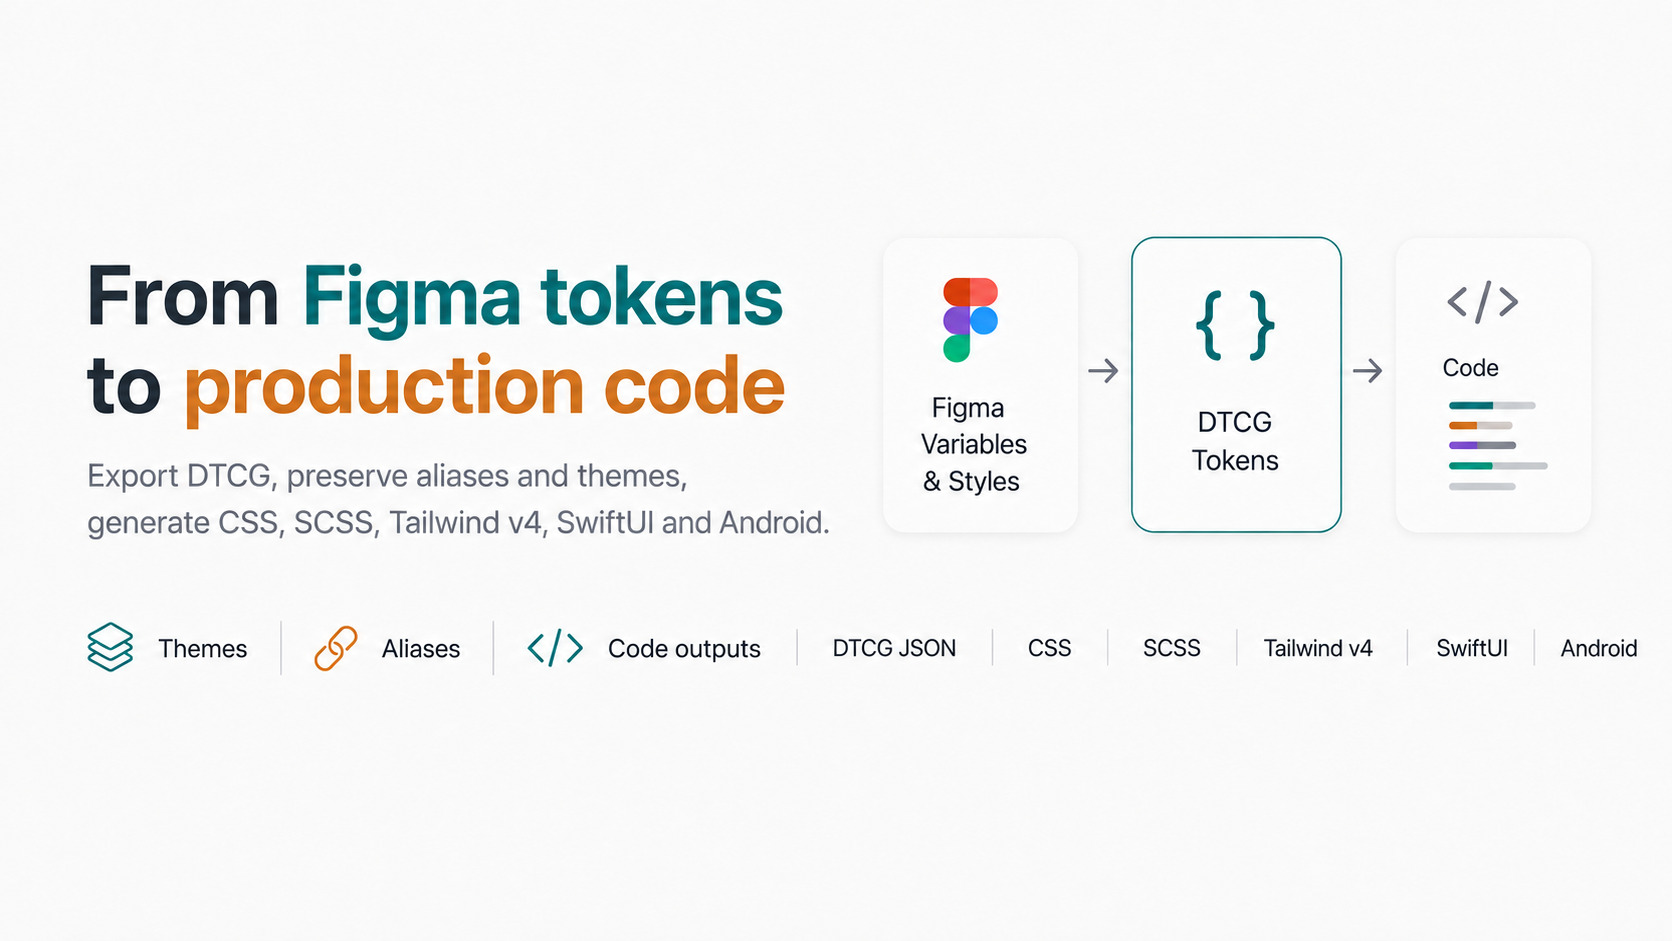
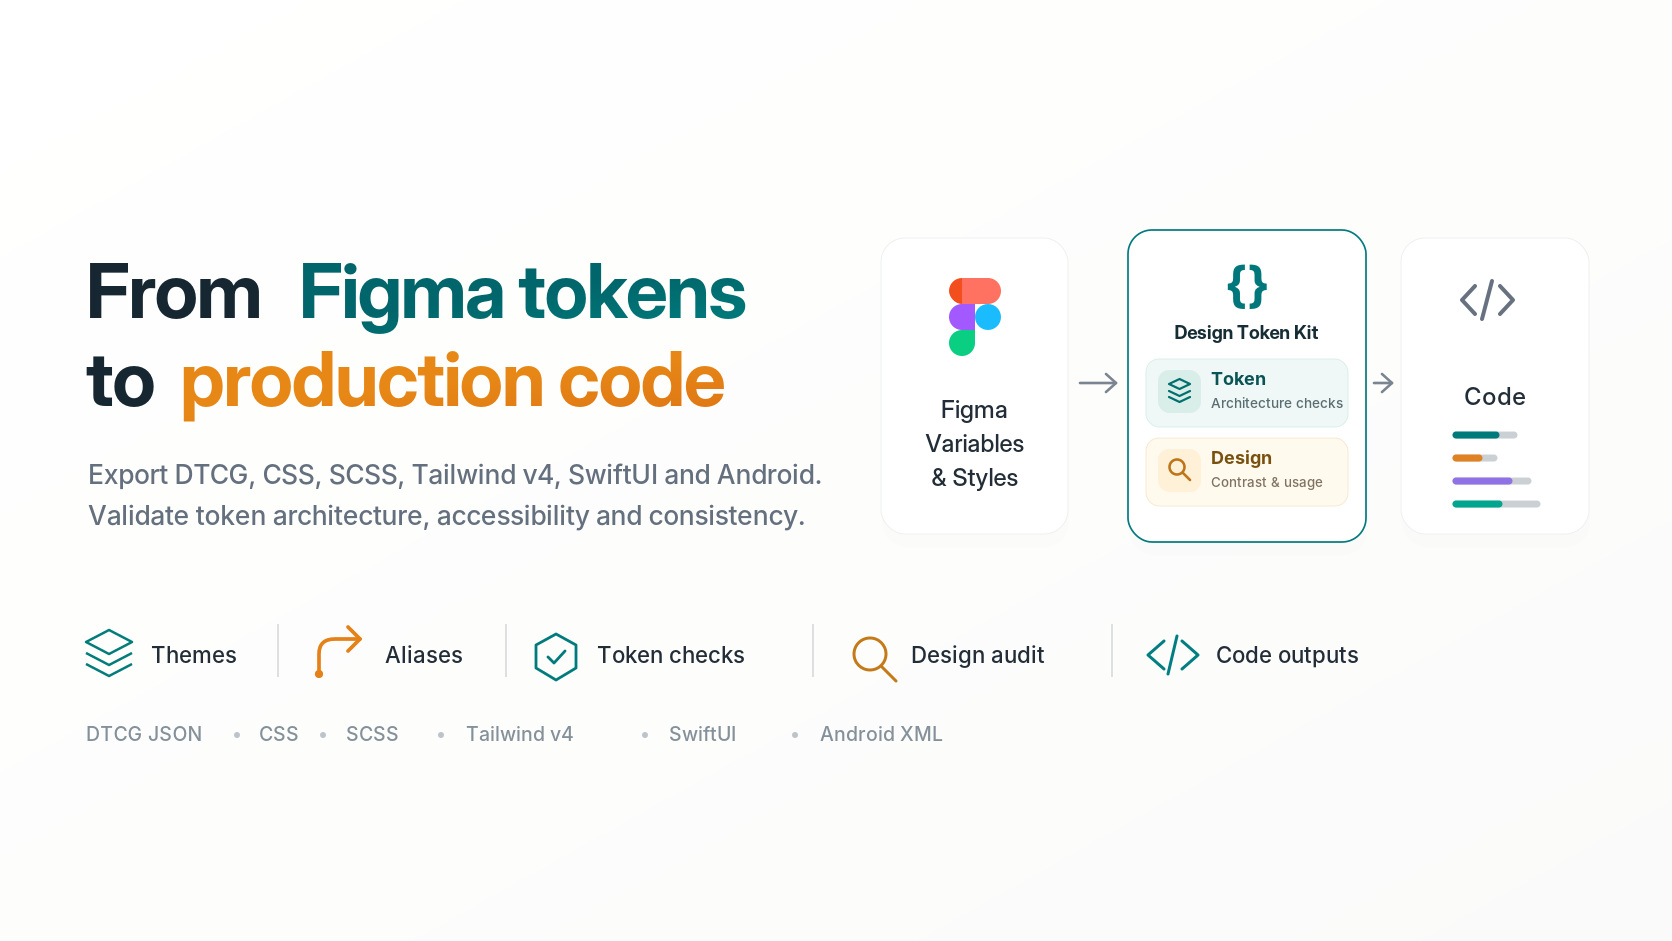
Refresh Figma plugin pages

diff --git a/src/pages/plugin/plugin.module.scss b/src/pages/plugin/plugin.module.scss
@@ -100,98 +100,18 @@
     max-width: var(--primitive-size-contentMaxWidthWide);
 
     h3 {
-        margin: var(--semantic-space-3) var(--semantic-space-0) var(--semantic-space-4);
+        margin: var(--semantic-space-0) var(--semantic-space-0) var(--semantic-space-4);
         color: var(--semantic-color-accent-primary);
         font-size: clamp(1.7rem, 3vw, 2.5rem);
         line-height: var(--semantic-font-lineHeight-tight);
         letter-spacing: var(--semantic-font-letterSpacing-tight);
     }
 
-    > p:not(.showcaseLabel) {
+    > p {
         margin: var(--semantic-space-0);
         color: var(--semantic-color-text-secondary);
         font-size: var(--semantic-font-size-md);
         line-height: var(--semantic-font-lineHeight-relaxed);
-    }
-}
-
-.showcaseLabel {
-    margin: var(--semantic-space-0);
-    color: var(--semantic-color-accent-secondaryHover);
-    font-size: var(--semantic-font-size-xs);
-    font-weight: var(--semantic-font-weight-bold);
-    letter-spacing: var(--semantic-font-letterSpacing-wide);
-    text-transform: uppercase;
-}
-
-.showcaseBenefits {
-    display: grid;
-    gap: var(--semantic-space-3);
-    margin: var(--semantic-space-5) var(--semantic-space-0) var(--semantic-space-0);
-    padding: var(--semantic-space-4) var(--semantic-space-0) var(--semantic-space-0);
-    list-style: none;
-    border-top: var(--primitive-size-borderWidthSm) solid var(--semantic-color-border-subtle);
-
-    li {
-        position: relative;
-        padding-left: var(--semantic-space-5);
-        color: var(--semantic-color-text-primary);
-        font-size: var(--semantic-font-size-sm);
-        font-weight: var(--semantic-font-weight-semibold);
-        line-height: var(--semantic-font-lineHeight-normal);
-
-        &::before {
-            position: absolute;
-            top: var(--semantic-space-1);
-            left: 0;
-            width: var(--semantic-space-2);
-            height: var(--semantic-space-2);
-            content: "";
-            background: var(--semantic-color-accent-secondary);
-            border-radius: var(--semantic-radius-full);
-        }
-    }
-}
-
-.showcaseFormats {
-    display: flex;
-    gap: var(--semantic-space-4);
-    align-items: baseline;
-    margin-top: var(--semantic-space-5);
-    padding-top: var(--semantic-space-4);
-    border-top: var(--primitive-size-borderWidthSm) solid var(--semantic-color-border-subtle);
-
-    > span {
-        flex: 0 0 auto;
-        color: var(--semantic-color-text-muted);
-        font-size: var(--semantic-font-size-xs);
-        font-weight: var(--semantic-font-weight-bold);
-        letter-spacing: var(--semantic-font-letterSpacing-wide);
-        text-transform: uppercase;
-    }
-
-    ul {
-        display: flex;
-        flex-wrap: wrap;
-        gap: var(--semantic-space-0);
-        margin: var(--semantic-space-0);
-        padding: var(--semantic-space-0);
-        list-style: none;
-    }
-
-    li {
-        padding: var(--semantic-space-0) var(--semantic-space-3);
-        color: var(--semantic-color-text-primary);
-        font-size: var(--semantic-font-size-sm);
-        font-weight: var(--semantic-font-weight-semibold);
-
-        &:first-child {
-            padding-left: var(--semantic-space-0);
-        }
-
-        &:not(:last-child) {
-            border-right: var(--primitive-size-borderWidthSm) solid var(--semantic-color-border-default);
-        }
     }
 }
 
@@ -278,28 +198,14 @@
 
 .heroVisual {
     position: relative;
-    width: 88%;
+    width: 100%;
     justify-self: end;
-    padding: var(--semantic-space-5);
+    padding: var(--semantic-space-3);
     background: color-mix(in srgb, var(--semantic-color-surface-default) 82%, var(--semantic-color-bg-soft));
     border: var(--primitive-size-borderWidthSm) solid var(--semantic-color-border-default);
     border-radius: var(--semantic-radius-xl);
     box-shadow: var(--semantic-shadow-md);
     transform: rotate(1.5deg);
-
-    &::before {
-        position: absolute;
-        top: var(--semantic-space-6);
-        right: calc(var(--semantic-space-6) * -1);
-        width: var(--semantic-space-10);
-        height: var(--semantic-space-10);
-        content: "";
-        background: var(--semantic-color-accent-wash);
-        border: var(--primitive-size-borderWidthSm) solid var(--semantic-color-accent-secondary);
-        border-radius: var(--semantic-radius-full);
-        opacity: 0.7;
-        transform: translate(30%, -45%);
-    }
 
     img {
         position: relative;
@@ -309,29 +215,6 @@
         height: auto;
         border-radius: var(--semantic-radius-lg);
     }
-}
-
-.visualLabel {
-    position: relative;
-    z-index: 2;
-    display: inline-flex;
-    gap: var(--semantic-space-2);
-    align-items: center;
-    margin-bottom: var(--semantic-space-4);
-    padding: var(--semantic-space-2) var(--semantic-space-3);
-    color: var(--semantic-color-text-primary);
-    font-size: var(--semantic-font-size-xs);
-    font-weight: var(--semantic-font-weight-bold);
-    background: var(--semantic-color-surface-default);
-    border: var(--primitive-size-borderWidthSm) solid var(--semantic-color-border-subtle);
-    border-radius: var(--semantic-radius-full);
-}
-
-.statusDot {
-    width: var(--primitive-size-micro);
-    height: var(--primitive-size-micro);
-    background: var(--semantic-color-accent-secondary);
-    border-radius: var(--semantic-radius-full);
 }
 
 .showcaseCopy > .action {
@@ -399,15 +282,6 @@
         padding: var(--semantic-space-7) var(--semantic-space-0);
     }
 
-    .showcaseFormats {
-        align-items: flex-start;
-        flex-direction: column;
-        gap: var(--semantic-space-2);
-
-        li:first-child {
-            padding-left: var(--semantic-space-0);
-        }
-    }
 }
 
 @media (max-width: 32rem) {

diff --git a/src/components/documentation-section/DocumentationSection.module.scss b/src/components/documentation-section/DocumentationSection.module.scss
@@ -18,14 +18,12 @@
     }
 
     p:last-child {
-        max-width: var(--primitive-size-copyMaxWidthXl);
         margin: var(--semantic-space-3) auto var(--semantic-space-0);
         color: var(--semantic-color-text-secondary);
-        font-size: var(--semantic-font-size-sm);
-        font-weight: var(--semantic-font-weight-semibold);
-        line-height: var(--semantic-font-lineHeight-normal);
+        font-size: var(--semantic-font-size-base);
+        font-weight: var(--semantic-font-weight-normal);
+        line-height: normal;
         text-align: center;
-        text-wrap: balance;
     }
 }
 

diff --git a/src/components/workflow-panels/WorkflowPanels.module.scss b/src/components/workflow-panels/WorkflowPanels.module.scss
@@ -18,11 +18,11 @@
     }
 
     p:last-child {
-        margin: var(--semantic-space-3) var(--semantic-space-0) var(--semantic-space-0);
+        margin: var(--semantic-space-3) auto var(--semantic-space-0);
         color: var(--semantic-color-text-secondary);
-        font-size: var(--semantic-font-size-sm);
-        font-weight: var(--semantic-font-weight-semibold);
-        line-height: var(--semantic-font-lineHeight-normal);
+        font-size: var(--semantic-font-size-base);
+        font-weight: var(--semantic-font-weight-normal);
+        line-height: normal;
     }
 }
 

diff --git a/src/components/figma-plugin-section/FigmaPluginSection.module.scss b/src/components/figma-plugin-section/FigmaPluginSection.module.scss
@@ -18,13 +18,11 @@
     }
 
     p:last-child {
-        max-width: var(--primitive-size-copyMaxWidthXl);
         margin: var(--semantic-space-3) auto var(--semantic-space-0);
         color: var(--semantic-color-text-secondary);
-        font-size: var(--semantic-font-size-sm);
-        font-weight: var(--semantic-font-weight-semibold);
-        line-height: var(--semantic-font-lineHeight-normal);
-        text-wrap: balance;
+        font-size: var(--semantic-font-size-base);
+        font-weight: var(--semantic-font-weight-normal);
+        line-height: normal;
     }
 }
 

diff --git a/src/components/sections/ArticlesSection.module.scss b/src/components/sections/ArticlesSection.module.scss
@@ -35,14 +35,12 @@
 }
 
 .description {
-    max-width: var(--primitive-size-copyMaxWidthXl);
     margin: var(--semantic-space-3) auto var(--semantic-space-0);
     color: var(--semantic-color-text-secondary);
-    font-size: var(--semantic-font-size-sm);
-    font-weight: var(--semantic-font-weight-semibold);
-    line-height: var(--semantic-font-lineHeight-normal);
+    font-size: var(--semantic-font-size-base);
+    font-weight: var(--semantic-font-weight-normal);
+    line-height: normal;
     text-align: center;
-    text-wrap: balance;
 }
 
 .allLink {
